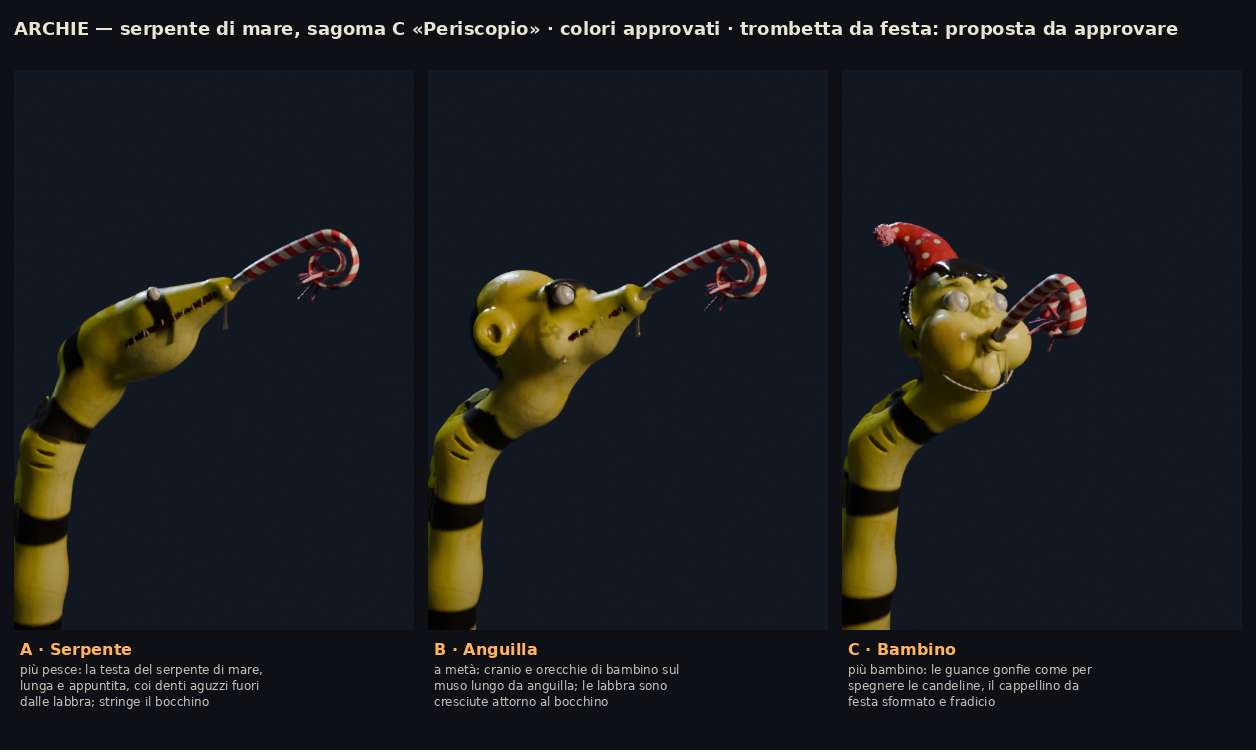
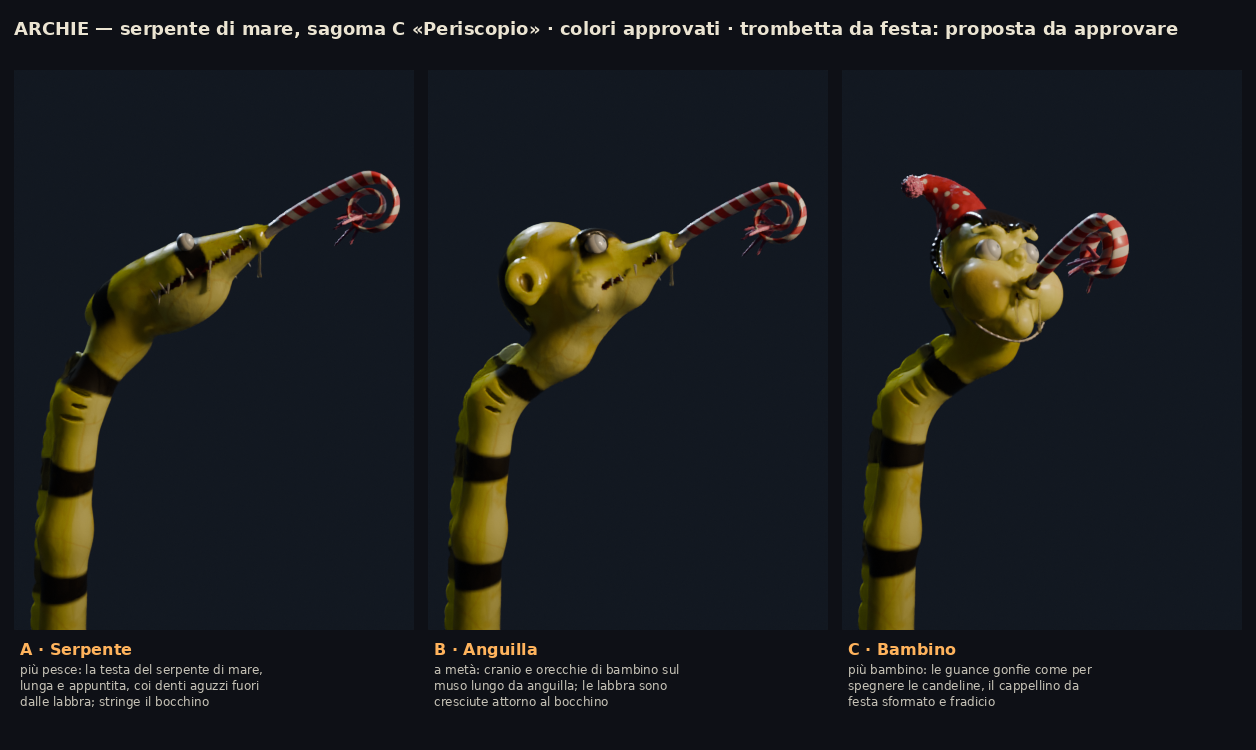
Archie rifatto: serpente di mare giallo ad anelli neri con la trombetta da festa (da scegliere)
Claude-Session: https://claude.ai/code/session_01EnpEiCdqMobb6kXAdCVCvL

Changed region(s): [[0.6521, 0.2147, 0.9005, 0.8587], [0.0, 0.2147, 0.3416, 0.8587], [0.3416, 0.2453, 0.6521, 0.8587]]

diff --git a/tools/render/teste_archie.py b/tools/render/teste_archie.py
@@ -56,7 +56,7 @@ HEAD = V(-0.04, 0.18, 2.36)               # centro della testa, in cima al collo
 AIM = unit(LAMP - HEAD)                   # la testa la prende di mira
 HEAD_PITCH = -math.degrees(math.asin(float(AIM[2])))
 HEAD_YAW = math.degrees(math.asin(float(AIM[0]) / math.sqrt(1.0 - float(AIM[2]) ** 2)))
-CAM = ((-1.20, -0.20, 2.34), (-0.14, -0.02, 2.32), 36)
+CAM = ((-1.20, -0.14, 2.26), (-0.12, 0.05, 2.22), 36)
 TESTONE = 1.3                             # le teste da bambino (B, C) sono più grandi del vero
 
 # i testi sotto i pannelli della tavola (nome della variante e spiegazione)
@@ -118,7 +118,7 @@ def piuma_material():
 # solo il collo, lungo e liscio come un'anguilla, e la testa in cima piegata verso la luce.
 
 NECK = [V(0.02, 0.50, -0.20), V(0.0, 0.47, 0.50), V(-0.01, 0.44, 1.20), V(-0.02, 0.41, 1.80), V(-0.025, 0.37, 2.10)]
-NECK_R = [0.090, 0.078, 0.066, 0.058, 0.055]
+NECK_R = [0.085, 0.072, 0.058, 0.050, 0.047]
 
 
 class Testa(D.Frame):
@@ -148,7 +148,7 @@ def frame(k=1.0, dyaw=0.0):
 def neck_path(fr, attacco):
     """I punti del collo fino alla testa: l'ultimo tratto entra nella nuca dal basso ('attacco', locale)."""
     q = V(*attacco)
-    return NECK + [fr.pt(q), fr.pt(q + V(0, -0.06, 0.04))], NECK_R + [0.060, 0.064]
+    return NECK + [fr.pt(q), fr.pt(q + V(0, -0.06, 0.04))], NECK_R + [0.054, 0.060]
 
 
 class Collo:
@@ -196,7 +196,7 @@ def bande_collo(collo, s_top, p):
 def pinna(collo, s_top):
     """La pinna bassa lungo il dorso, come sul serpente di mare: una lama sottile che corre su tutto il collo e
     muore poco dietro la testa."""
-    lama = sdf.ellipsoid(V(0, 0, 0), (0.0035, 0.013, 0.030))      # (di fianco, in altezza, lungo il collo)
+    lama = sdf.ellipsoid(V(0, 0, 0), (0.0045, 0.024, 0.032))      # (di fianco, in altezza, lungo il collo)
     parts, pts = [], []
     for sv in np.arange(1.0, s_top - 0.10, 0.04):
         i = int(np.searchsorted(collo.s, sv))
@@ -435,13 +435,13 @@ def archie_a():
     gape = [[V(s * 0.016, -0.200, -0.014), V(s * 0.034, -0.140, -0.024), V(s * 0.046, -0.060, -0.030), V(s * 0.046, -0.020, -0.034)] for s in (-1, 1)]
     mouth = sdf.union(*[chain(g, [0.0026, 0.0034, 0.0032, 0.0022], k=0.002) for g in gape])
     hole = sdf.round_cone(qb + unit(V(*db)) * 0.01, qb - unit(V(*db)) * 0.02, 0.0072, 0.0066)
-    sockets = sdf.union(*[sdf.sphere(V(s * 0.040, -0.098, 0.028), 0.012) for s in (-1, 1)])
+    sockets = sdf.union(*[sdf.sphere(V(s * 0.041, -0.098, 0.029), 0.0145) for s in (-1, 1)])
     pores = sdf.union(*[sdf.sphere(V(s * 0.034, y, 0.022), 0.0026) for s in (-1, 1) for y in (-0.150, -0.125, -0.070, -0.045)])   # pori della linea laterale
 
     def testa(q):
         m = sdf.ellipsoid(V(0, -0.03, -0.01), (0.11, 0.28, 0.14))(q) < 0.0
         ven = np.clip(0.5 - (q[:, 2] + 0.005) / 0.08, 0.0, 1.0)
-        sec = bande_testa(q, [(-0.098, 0.022, 0.016), (0.110, 0.030, 0.024)], zmin=-0.045)
+        sec = bande_testa(q, [(-0.098, 0.026, 0.018), (0.110, 0.030, 0.024)], zmin=-0.045)
         return ven, sec, m
 
     def bocca(p):
@@ -452,10 +452,10 @@ def archie_a():
     obs = [pelle_mesh(f, attrs, {'mouth': bocca})]
     pairs = []
     for g in gape:
-        pairs += zanne(fr, [p + V(0, 0, 0.003) for p in g], 7, su=True, L=(0.010, 0.017))
-        pairs += zanne(fr, [p + V(0, 0.006, -0.003) for p in g], 6, su=False, L=(0.008, 0.014))
+        pairs += zanne(fr, [p + V(0, 0, 0.003) for p in g], 6, su=True, L=(0.018, 0.030), r=0.0034, fuori=0.55)
+        pairs += zanne(fr, [p + V(0, 0.010, -0.003) for p in g], 5, su=False, L=(0.014, 0.022), r=0.0030, fuori=0.55)
     obs.append(D.teeth_mesh('ArchieTeeth', pairs, D.needle_teeth()))
-    obs += D.eyes('ArchieEye', [fr.pt((s * 0.040, -0.098, 0.028)) for s in (-1, 1)], 0.0125 * fr.k, AIM)
+    obs += D.eyes('ArchieEye', [fr.pt((s * 0.041, -0.098, 0.029)) for s in (-1, 1)], 0.0155 * fr.k, AIM)
     obs += trombetta(fr, qb, db)
     obs.append(bava('ArchieSlime', fili=[(fr.pt((0.030, -0.150, -0.024)), fr.pt((0.032, -0.150, -0.036)), 0.004)],
                     gocce=[(fr.pt((0.0, -0.205, -0.030)), 0.05), (fr.pt((-0.036, -0.120, -0.034)), 0.035)]))
@@ -510,8 +510,8 @@ def archie_b():
     obs = [pelle_mesh(f, attrs, {'mouth': bocca})]
     pairs = []
     for g in gape:
-        pairs += zanne(fr, [p + V(0, 0, 0.003) for p in g], 4, su=True, L=(0.007, 0.012), r=0.0021)
-        pairs += zanne(fr, [p + V(0, 0.005, -0.003) for p in g], 3, su=False, L=(0.006, 0.010), r=0.0020)
+        pairs += zanne(fr, [p + V(0, 0, 0.003) for p in g], 4, su=True, L=(0.011, 0.018), r=0.0026, fuori=0.45)
+        pairs += zanne(fr, [p + V(0, 0.006, -0.003) for p in g], 3, su=False, L=(0.009, 0.014), r=0.0024, fuori=0.45)
     obs.append(D.teeth_mesh('ArchieTeeth', pairs, D.needle_teeth()))
     obs += D.eyes('ArchieEye', [fr.pt((s * 0.036, -0.078, 0.024)) for s in (-1, 1)], 0.0175 * fr.k, AIM)
     obs += trombetta(fr, qb, db)
